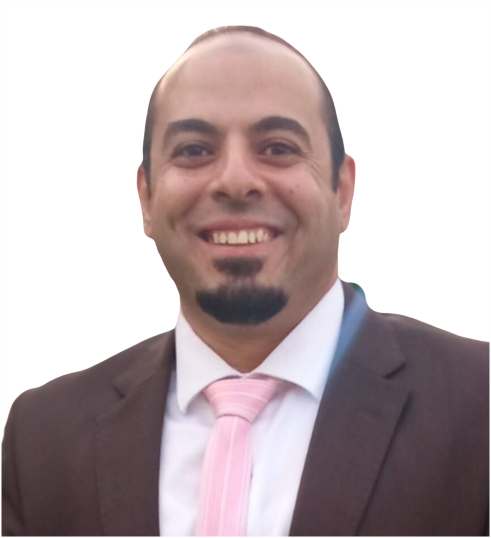
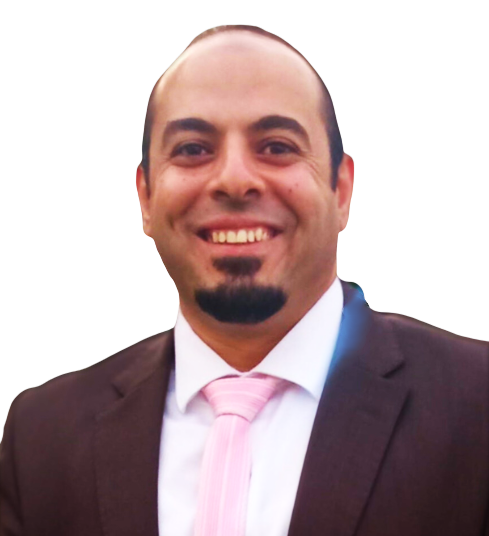
profile-picture

diff --git a/index.html b/index.html
@@ -77,27 +77,18 @@
 						Hi There, I’M A Passionate Software Engineer
 					</h1>
 					<p class="bio__objective">
-						My name is <span class="bio__name">Mohamed Abusrea</span>, a
-						co-founder of
-						<a href="https://almdrasa.com/" class="bio__almdrasa"
-							>Almdrasa.com</a
-						>, Software Engineer and a content creator who publish content on
-						<a
-							href="https://www.facebook.com/profile.php?id=100008206023156"
-							class="bio__facebook"
-							>Facebook</a
-						>,
-						<a href="https://twitter.com/home" class="bio__twitter">Twitter</a>,
+						My name is <span class="bio__name">Ahmed Fawzy</span>, Frontend
+						Engineer and student at
+						<a href="https://almdrasa.com/" class="bio__almdrasa">Almdrasa</a>,
+						publish my projects on
 						<a
 							href="https://www.linkedin.com/in/ahmed-fawzy-nourallah/"
 							class="bio__linkedin"
-							>LinkedIn</a
-						>
-						and
-						<a href="#" class="bio__youtube">Youtube</a>.
+							>LinkedIn
+						</a>
 					</p>
 					<a href="#contact" class="bio__links say-hi-link">Say Hi</a>
-					<a href="/mohamedAbusreaResume.pdf" class="bio__links find-out-link"
+					<a href="#" class="bio__links find-out-link"
 						>Download CV <span class="bio__arrow">&darr;</span></a
 					>
 				</div>
@@ -114,24 +105,24 @@
 				<h2 class="h2-heading">SKILLS</h2>
 				<ul class="skills__list">
 					<li class="skills__item">
+						<h2 class="skills__title">Python</h2>
+						<span class="skills__years">3 years</span>
+					</li>
+					<li class="skills__item">
 						<h2 class="skills__title">HTML</h2>
-						<span class="skills__years">8 years</span>
+						<span class="skills__years">2 years</span>
 					</li>
 					<li class="skills__item">
 						<h2 class="skills__title">CSS</h2>
-						<span class="skills__years">8 years</span>
+						<span class="skills__years">2 years</span>
 					</li>
 					<li class="skills__item">
 						<h2 class="skills__title">Javascript</h2>
-						<span class="skills__years">8 years</span>
+						<span class="skills__years">2 years</span>
 					</li>
 					<li class="skills__item">
 						<h2 class="skills__title">React</h2>
-						<span class="skills__years">4 years</span>
-					</li>
-					<li class="skills__item">
-						<h2 class="skills__title">Redux</h2>
-						<span class="skills__years">3 years</span>
+						<span class="skills__years">2 years</span>
 					</li>
 					<li class="skills__item">
 						<h2 class="skills__title">React testing library</h2>

diff --git a/styles/style.css b/styles/style.css
@@ -287,9 +287,7 @@ body,
 	box-shadow: 2.17543px 8.7017px 38.0699px rgba(0, 0, 0, 0.15);
 }
 .bio__pic {
-	width: 49.7rem;
-	border: transparent;
-	z-index: -1;
+	width: 47.7rem;
 }
 .skills__list {
 	display: grid;
